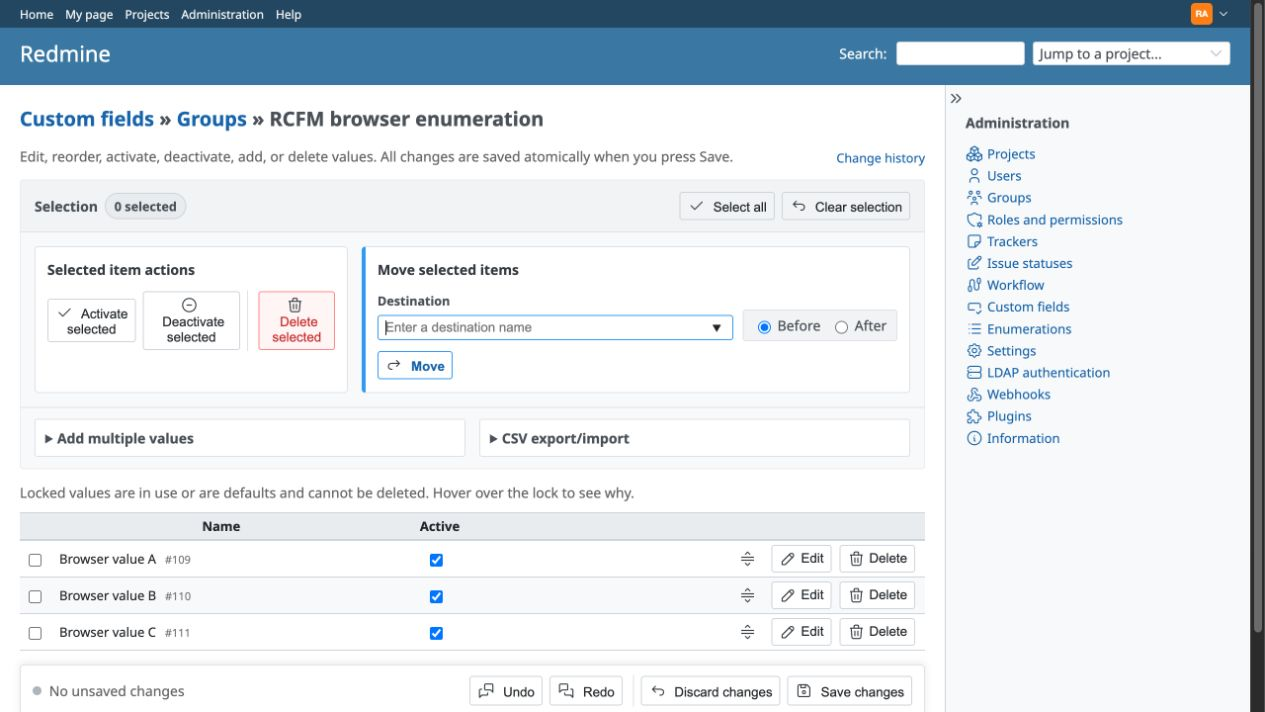
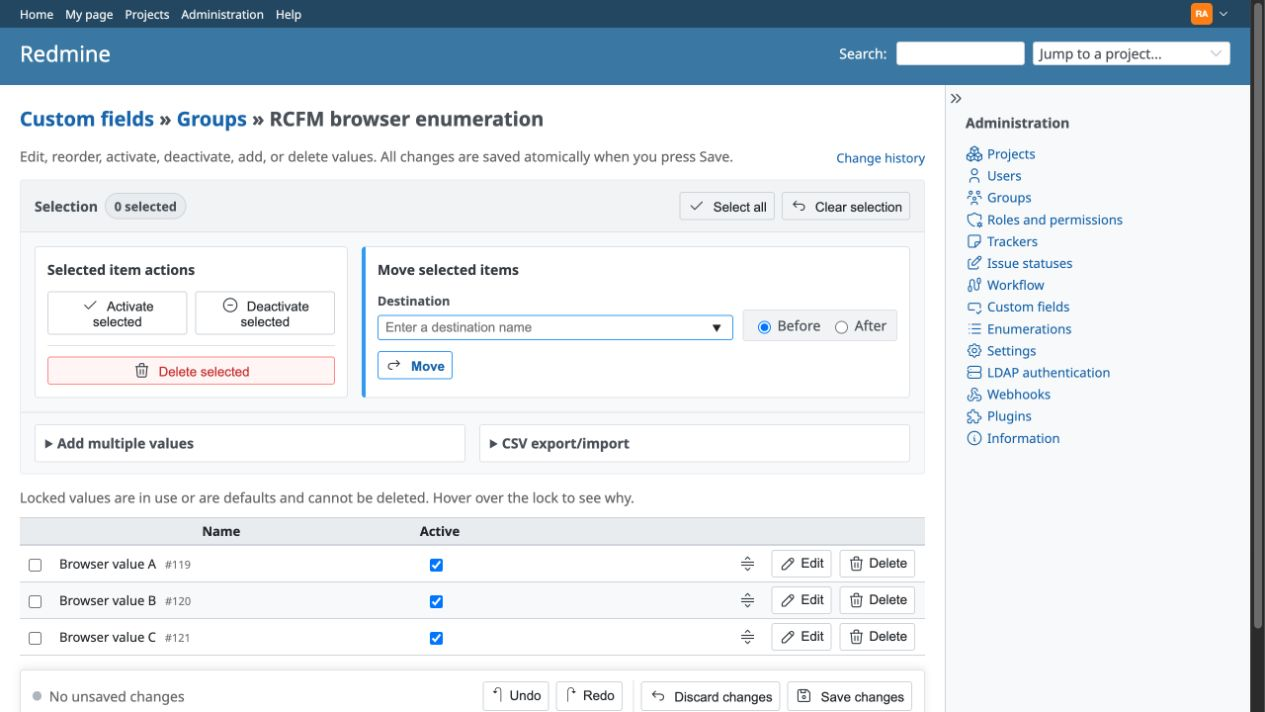
Fix responsive manager controls

diff --git a/test/browser/manager.spec.js b/test/browser/manager.spec.js
@@ -59,7 +59,7 @@ test.describe.serial('custom field manager browser behavior', function() {
     const resetBox = await commitBar.locator('.rcfm-reset').boundingBox();
     expect(selectionBox.y).toBeLessThan(stateBox.y);
     expect(stateBox.x).toBeLessThan(moveBox.x);
-    expect(deactivateBox.x).toBeLessThan(deleteBox.x);
+    expect(deactivateBox.y).toBeLessThan(deleteBox.y);
     expect(resetBox.x).toBeLessThan(saveBox.x);
 
     await page.locator('.rcfm-enumerations tbody tr').nth(0).locator('.rcfm-active').uncheck();
@@ -72,6 +72,24 @@ test.describe.serial('custom field manager browser behavior', function() {
     });
     expect(saveBackground).not.toBe(resetBackground);
     await commitBar.locator('.rcfm-reset').click();
+
+    await page.setViewportSize({width: 1044, height: 834});
+    const mediumStateBox = await statePanel.boundingBox();
+    const mediumDeleteBox = await statePanel.locator('.rcfm-delete-selected').boundingBox();
+    expect(mediumDeleteBox.x).toBeGreaterThanOrEqual(mediumStateBox.x);
+    expect(mediumDeleteBox.x + mediumDeleteBox.width).toBeLessThanOrEqual(
+      mediumStateBox.x + mediumStateBox.width
+    );
+    await expect(commitBar.locator('.rcfm-undo')).not.toHaveClass(/icon/);
+    await expect(commitBar.locator('.rcfm-redo')).not.toHaveClass(/icon/);
+    const undoIcon = await commitBar.locator('.rcfm-undo').evaluate(function(element) {
+      return window.getComputedStyle(element, '::before').content;
+    });
+    const redoIcon = await commitBar.locator('.rcfm-redo').evaluate(function(element) {
+      return window.getComputedStyle(element, '::before').content;
+    });
+    expect(undoIcon).toBe('"↶"');
+    expect(redoIcon).toBe('"↷"');
 
     await page.setViewportSize({width: 720, height: 900});
     const narrowStateBox = await statePanel.boundingBox();

diff --git a/assets/stylesheets/custom_field_manager.css b/assets/stylesheets/custom_field_manager.css
@@ -32,7 +32,6 @@
 
 .rcfm-selection-summary,
 .rcfm-selection-controls,
-.rcfm-state-actions,
 .rcfm-commit-controls,
 .rcfm-history-actions,
 .rcfm-final-actions {
@@ -95,9 +94,25 @@
 }
 
 .rcfm-destructive-actions {
-  border-inline-start: 1px solid var(--oc-gray-3, #ddd);
-  margin-inline-start: auto;
-  padding-inline-start: 0.75em;
+  border-top: 1px solid var(--oc-gray-3, #ddd);
+  grid-column: 1 / -1;
+  margin-top: 0.15em;
+  padding-top: 0.65em;
+}
+
+.rcfm-destructive-actions button {
+  width: 100%;
+}
+
+.rcfm-state-actions {
+  display: grid;
+  gap: 0.55em;
+  grid-template-columns: repeat(2, minmax(0, 1fr));
+}
+
+.rcfm-state-actions > button {
+  min-width: 0;
+  width: 100%;
 }
 
 .rcfm-move-controls {
@@ -145,8 +160,21 @@
   vertical-align: text-bottom;
 }
 
-.rcfm-redo .icon-svg {
-  transform: scaleX(-1);
+.rcfm-undo::before,
+.rcfm-redo::before {
+  display: inline-block;
+  font-size: 1.25em;
+  line-height: 0;
+  margin-inline-end: 0.3em;
+  vertical-align: -0.05em;
+}
+
+.rcfm-undo::before {
+  content: "↶";
+}
+
+.rcfm-redo::before {
+  content: "↷";
 }
 
 .rcfm-button-quiet {
@@ -389,20 +417,9 @@
     grid-template-columns: minmax(0, 1fr);
   }
 
-  .rcfm-state-actions {
-    align-items: stretch;
-    flex-direction: column;
-  }
-
   .rcfm-destructive-actions {
-    border-inline-start: 0;
-    border-top: 1px solid var(--oc-gray-3, #ddd);
     margin: 0.25em 0 0;
     padding: 0.65em 0 0;
-  }
-
-  .rcfm-destructive-actions button {
-    width: 100%;
   }
 
   .rcfm-target-field {
